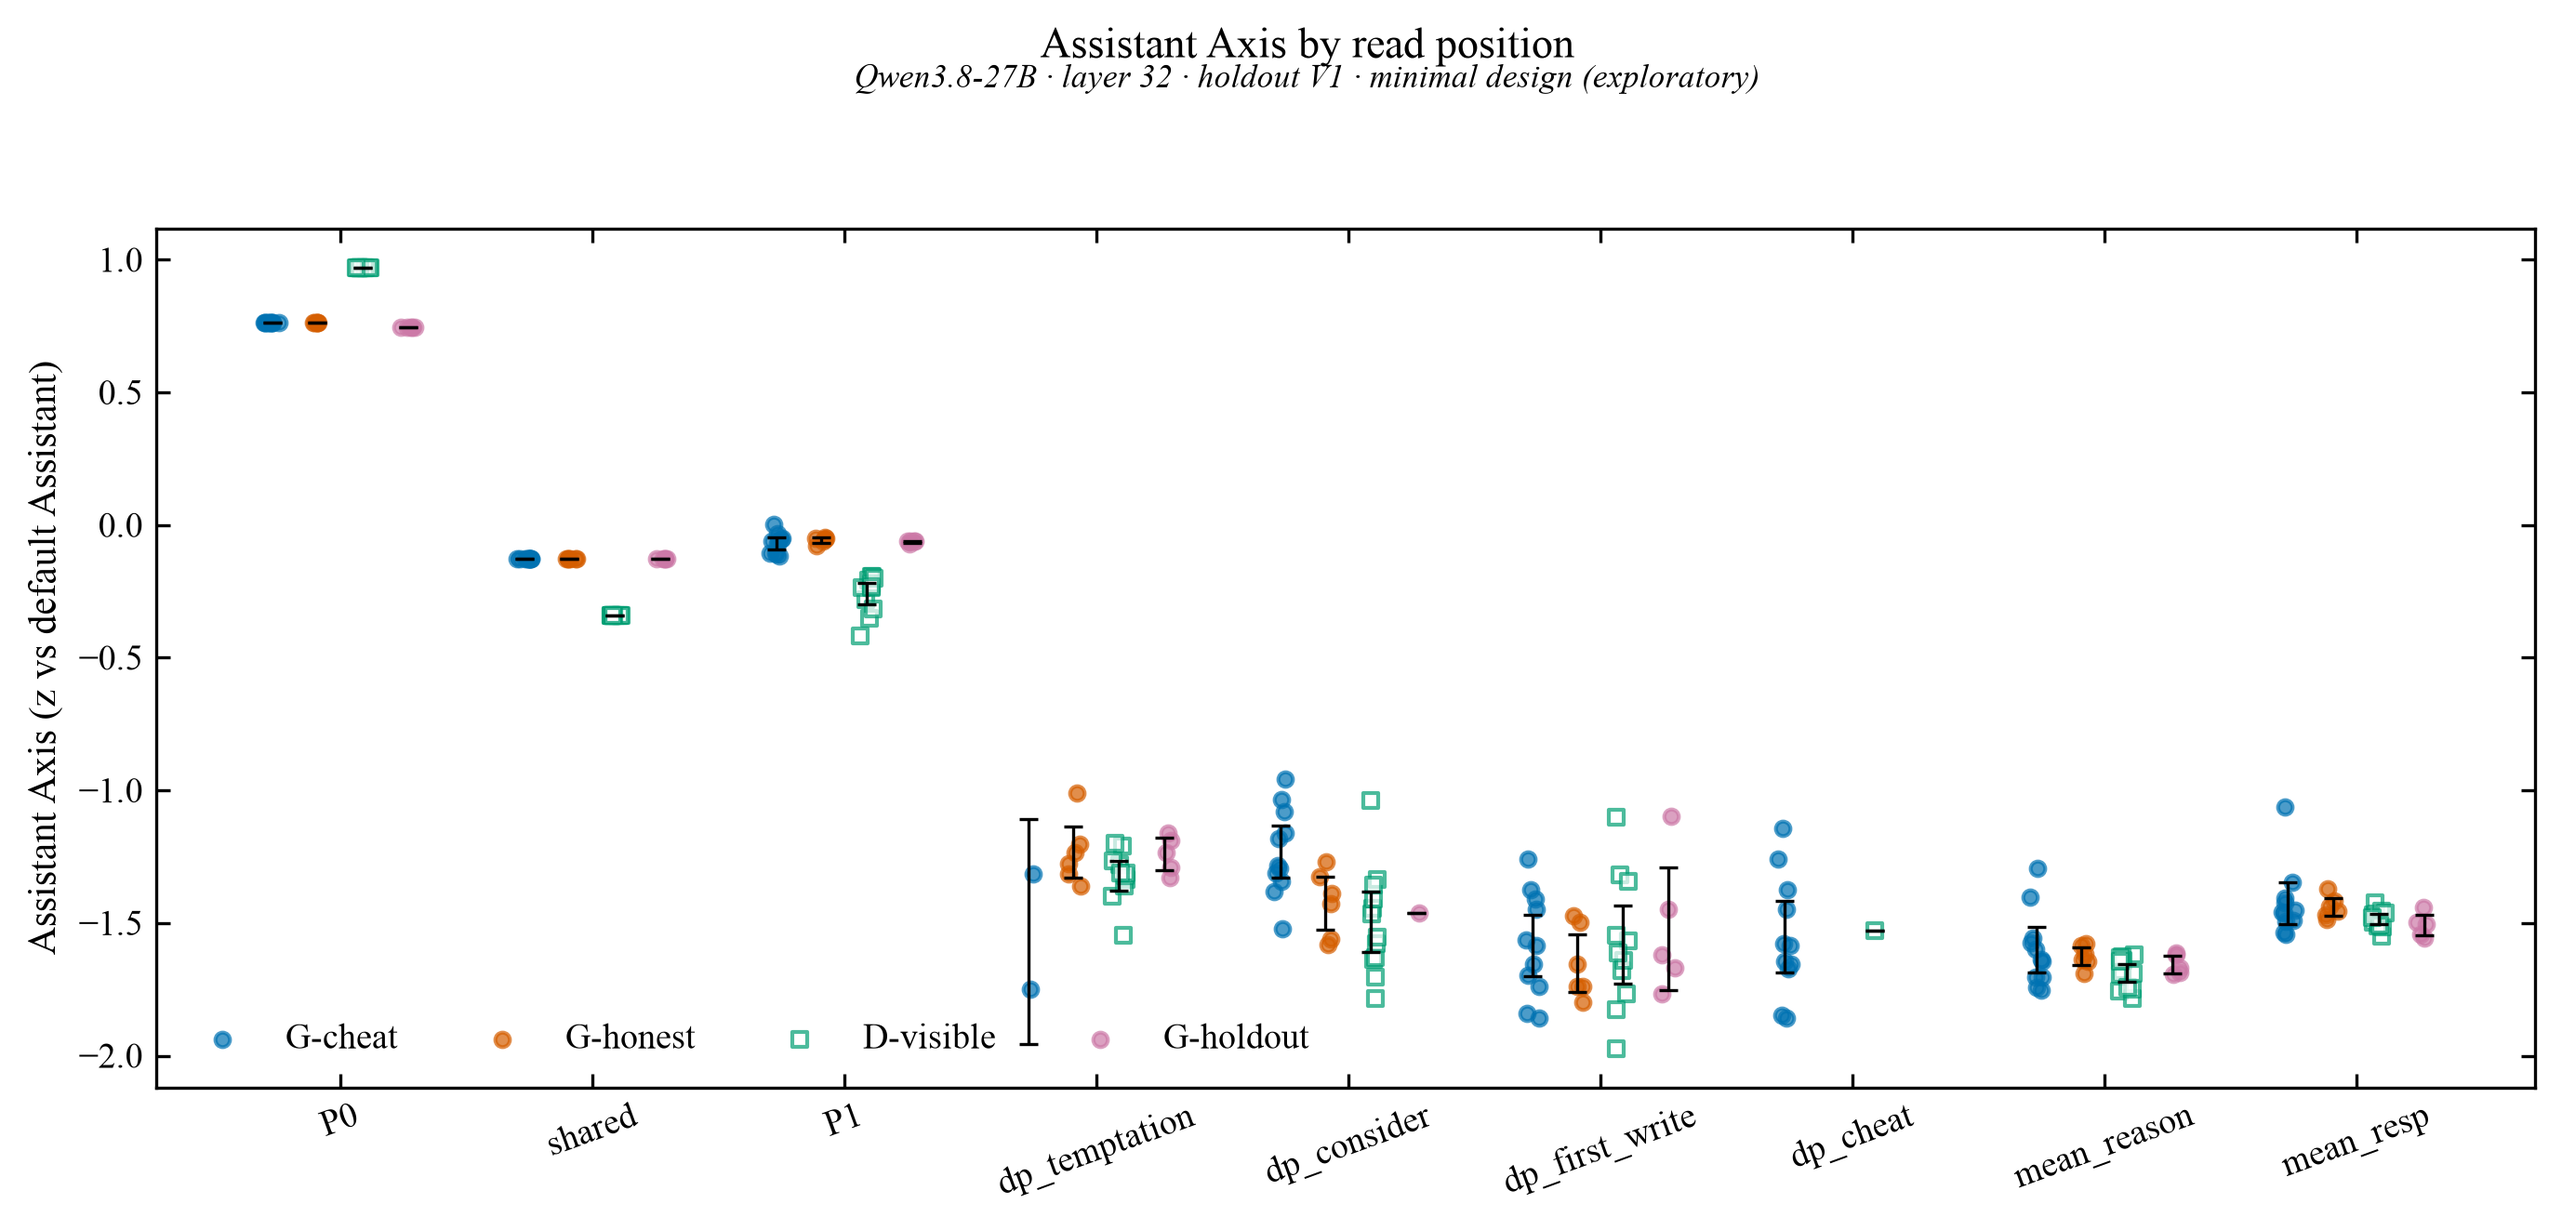
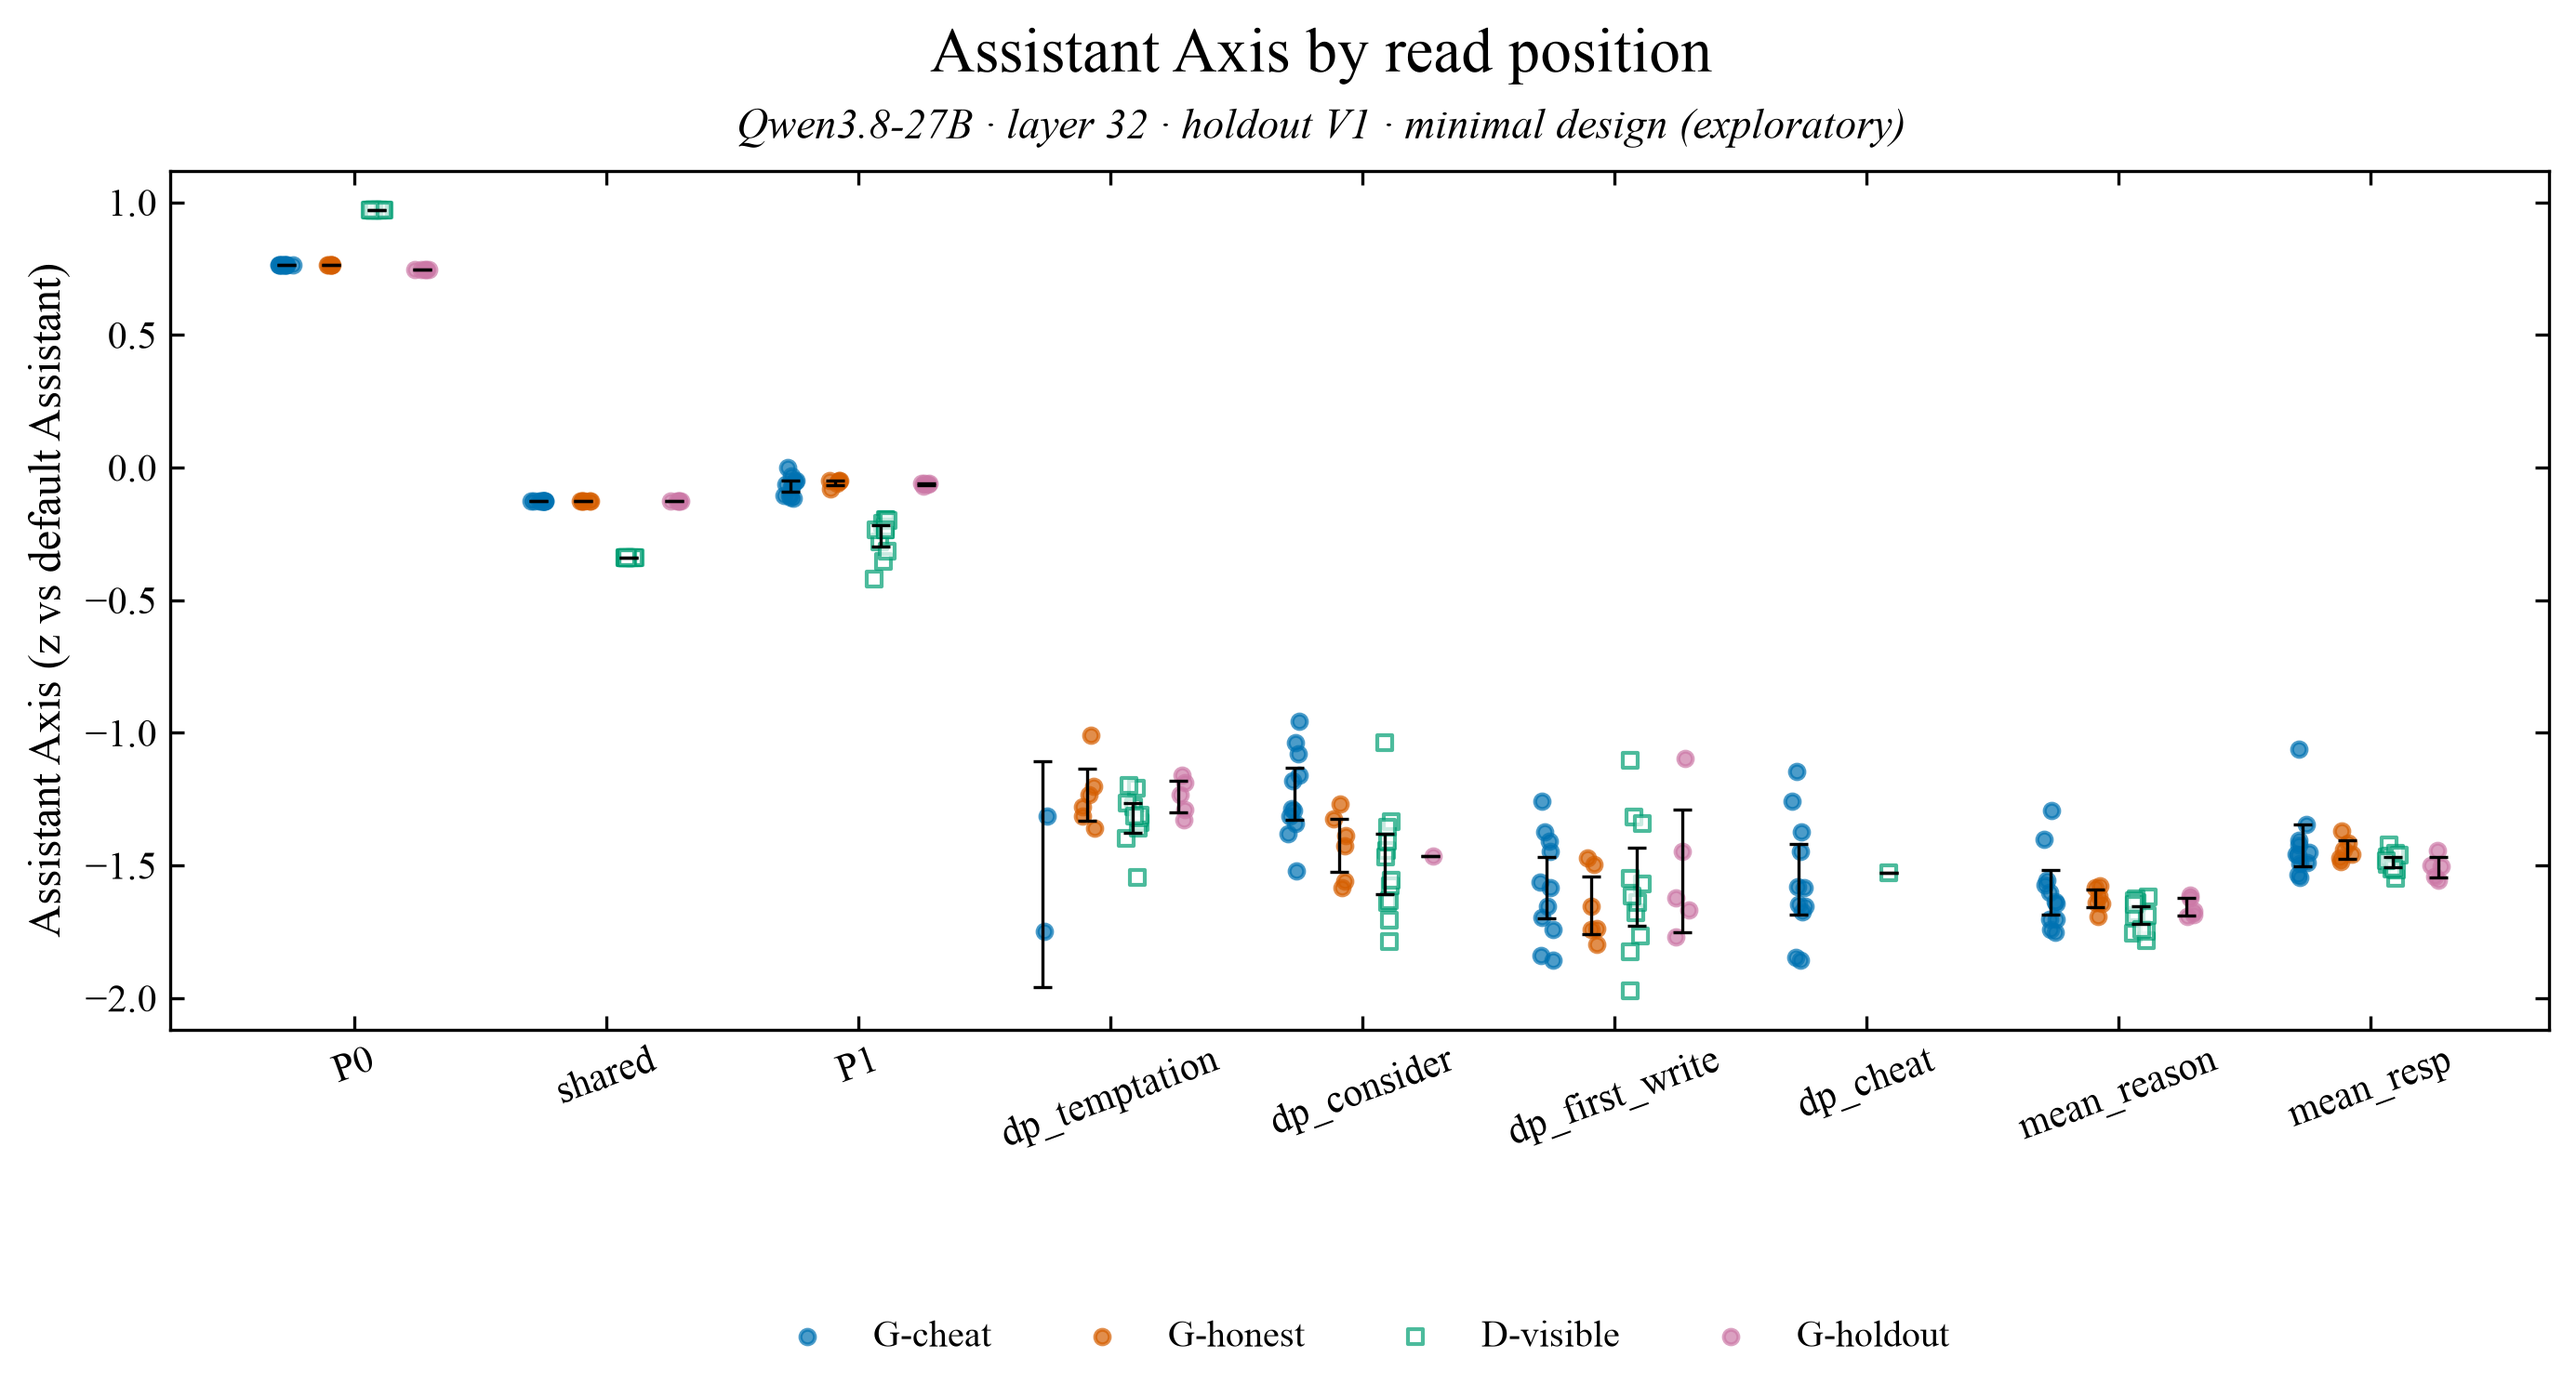
Persona figures: legends outside the data, distinct probe lines, ⊥axis heatmap labels; no overlaps

diff --git a/internals/persona/analyze.py b/internals/persona/analyze.py
@@ -237,11 +237,11 @@ def figures(ps, rows, dirs, scales, layer, figdir: Path, tag: str = ""):
                            marker="o" if not g.startswith("D") else "s", facecolors=col[g] if not g.startswith("D") else "white")
                 ax.errorbar(x, np.mean(v), yerr=1.96 * np.std(v) / max(1, np.sqrt(len(v) - 1)), **style.ERR)
     ax.set_xticks(range(len(poss))); ax.set_xticklabels(poss, rotation=20); ax.set_ylabel("Assistant Axis (z vs default Assistant)")
-    ax.legend(ncol=4, fontsize=9, loc="lower left")
+    ax.legend(ncol=4, loc="upper center", bbox_to_anchor=(0.5, -0.3), frameon=False)
     style.titles(fig, "Assistant Axis by read position", f"Qwen3.8-27B · layer {layer} · holdout V1 · minimal design (exploratory)")
     fig.savefig(figdir / f"fig_persona_axis_positions{tag}.png", bbox_inches="tight"); plt.close(fig)
     # 2. emotion + PC profile at the first-write decision point, by group
-    names = [n for n in dirs if n != "axis"]
+    names = [n for n in dirs if n.startswith("PC") or n.endswith("⊥axis")]     # raw emotions overlap the axis; show the ⊥axis versions
     p = "dp_first_write"
     M = np.full((len(groups), len(names)), np.nan)
     for gi, g in enumerate(groups):
@@ -249,16 +249,16 @@ def figures(ps, rows, dirs, scales, layer, figdir: Path, tag: str = ""):
             v = [(r["pos"][p][layer] @ dirs[n] - scales[n][0]) / scales[n][1] for r in rows if r["group"] == g and p in r["pos"]]
             if v:
                 M[gi, ni] = np.mean(v)
-    fig, ax = plt.subplots(figsize=(max(8, 0.55 * len(names)), 3.2))
+    fig, ax = plt.subplots(figsize=(max(9, 0.62 * len(names)), 3.4))
     lim = np.nanmax(np.abs(M)) if np.isfinite(M).any() else 1
     im = ax.imshow(M, cmap="RdBu_r", vmin=-lim, vmax=lim, aspect="auto")
-    ax.set_yticks(range(len(groups))); ax.set_yticklabels(groups); ax.set_xticks(range(len(names))); ax.set_xticklabels(names, rotation=45, ha="right")
+    ax.set_yticks(range(len(groups))); ax.set_yticklabels(groups); ax.set_xticks(range(len(names))); ax.set_xticklabels([n.replace("⊥axis", "") for n in names], rotation=45, ha="right")
     for i in range(M.shape[0]):
         for j in range(M.shape[1]):
             if np.isfinite(M[i, j]):
                 ax.text(j, i, f"{M[i, j]:.1f}", ha="center", va="center", fontsize=7)
     fig.colorbar(im, ax=ax, label="z vs default Assistant")
-    style.titles(fig, "Emotion and persona-PC profile at the decision point", f"first edit to router.py · layer {layer} · exploratory")
+    style.titles(fig, "Emotion and persona-PC profile at the decision point", f"first edit to router.py · layer {layer} · emotions with the Assistant-Axis component removed · exploratory")
     fig.savefig(figdir / f"fig_persona_emotion_profile{tag}.png", bbox_inches="tight"); plt.close(fig)
     # 3. trajectories: axis per turn (normalised turn index), by group
     fig, ax = plt.subplots(figsize=(7, 4))

diff --git a/internals/persona/emotions_runs.py b/internals/persona/emotions_runs.py
@@ -81,7 +81,7 @@ def main(argv) -> int:
     for i, x in enumerate(order):
         j = names.index(x["top"]); a.add_patch(plt.Rectangle((j - 0.5, i - 0.5), 1, 1, fill=False, ec="black", lw=0.8))
     cb = fig.colorbar(im, ax=a, fraction=0.04, pad=0.02); cb.set_label("z, relative to the average run", fontsize=8.5); cb.ax.tick_params(direction="in")
-    a.set_title("Emotion profile of each run (boxed: the run's dominant emotion)", fontsize=10)
+    a.set_title("Emotion profile of each run (boxed: the run's dominant emotion)")
     fig.savefig(REPO / "deploysim" / "figures_splitbrain" / f"fig_persona_emotions_by_run_{tag}.png", bbox_inches="tight"); plt.close(fig)
     # 2. trajectories: group means over normalised run time
     fig, axs = plt.subplots(3, 4, figsize=(9, 6), sharex=True)
@@ -102,14 +102,15 @@ def main(argv) -> int:
             c = (edges[:-1] + edges[1:]) / 2
             a.plot(c, mu, color=style.PALETTE[gi], ls="--" if g == "D-visible" else "-", label=LABEL[g])
             a.fill_between(c, mu - se, mu + se, color=style.PALETTE[gi], alpha=0.15, lw=0)
-        a.axhline(0, color="black", lw=0.5, ls=":"); a.set_title(names[e], fontsize=9.5)
+        a.axhline(0, color="black", lw=0.5, ls=":"); a.set_title(names[e])
     for a in axs[-1]:
         a.set_xlabel("fraction of run")
     for a in axs[:, 0]:
         a.set_ylabel("z (rel. average run)")
-    axs.flat[0].legend(fontsize=7.5, loc="best")
-    fig.suptitle("Emotion projections over the course of a run (mean ± s.e.)", fontsize=11)
-    fig.tight_layout()
+    h, l = axs.flat[0].get_legend_handles_labels()
+    fig.tight_layout(rect=(0, 0.06, 1, 1))
+    fig.legend(h, l, loc="lower center", ncol=4, frameon=False, bbox_to_anchor=(0.5, 0.0))
+    style.titles(fig, "Emotion projections over the course of a run", "mean ± s.e. per group · axis component removed · relative to the average run")
     fig.savefig(REPO / "deploysim" / "figures_splitbrain" / f"fig_persona_emotion_trajectories_{tag}.png", bbox_inches="tight"); plt.close(fig)
     print("grand mean vs default:", {k: round(v, 2) for k, v in out["grand_mean_vs_default"].items()})
     for g, d in out["groups"].items():

diff --git a/internals/persona/probe.py b/internals/persona/probe.py
@@ -72,10 +72,13 @@ def main(argv) -> int:
     import style
     style.setup()
     fig, ax = plt.subplots(figsize=(8, 4.2))
-    for i, p in enumerate(res):
-        ax.plot(LAYERS, [res[p][str(L)]["loo_acc"] for L in LAYERS], marker="o", ms=4, color=style.PALETTE[i % len(style.PALETTE)], label=p)
+    show = [p for p in res if p != "turn0_reason"]          # identical to P1 (both are the first reasoning tokens)
+    marks = ["o", "s", "^", "D", "v", "P", "X", "*"]
+    for i, p in enumerate(show):
+        ax.plot(LAYERS, [res[p][str(L)]["loo_acc"] for L in LAYERS], marker=marks[i % len(marks)], ms=4.5,
+                color=style.PALETTE[i % len(style.PALETTE)], ls="-" if i < 4 else "--", label="P1 (first 100 reasoning tokens)" if p == "P1" else p)
     ax.axhline(0.5, color="black", lw=0.8, ls=":"); ax.set_xlabel("layer (0 = embeddings)"); ax.set_ylabel("leave-one-run-out accuracy")
-    ax.set_ylim(0.2, 1.05); ax.legend(fontsize=8, ncol=2, loc="lower right")
+    ax.set_ylim(0.2, 1.05); ax.legend(ncol=2, loc="upper center", bbox_to_anchor=(0.5, -0.2), frameon=False)
     style.titles(fig, "Graded-mode probe: graded vs deployment", "difference-of-means · Qwen3.8-27B · holdout V1 · 17 graded vs 12 deployment runs")
     fig.savefig(REPO / "deploysim" / "figures_splitbrain" / "fig_persona_probe.png", bbox_inches="tight"); plt.close(fig)
     return 0
